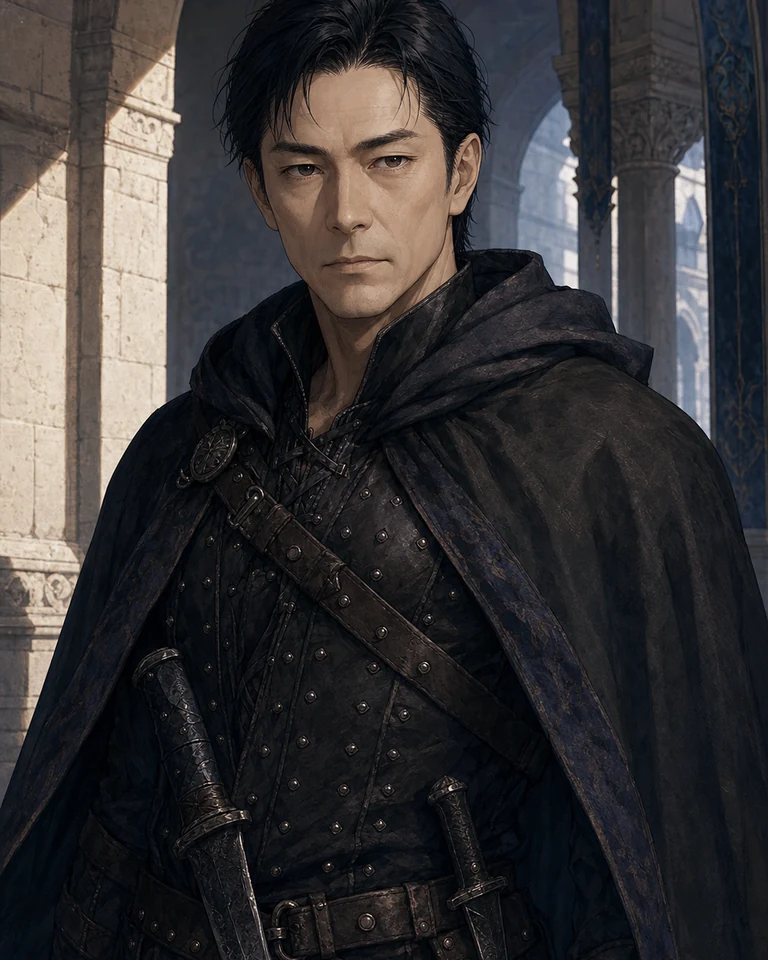
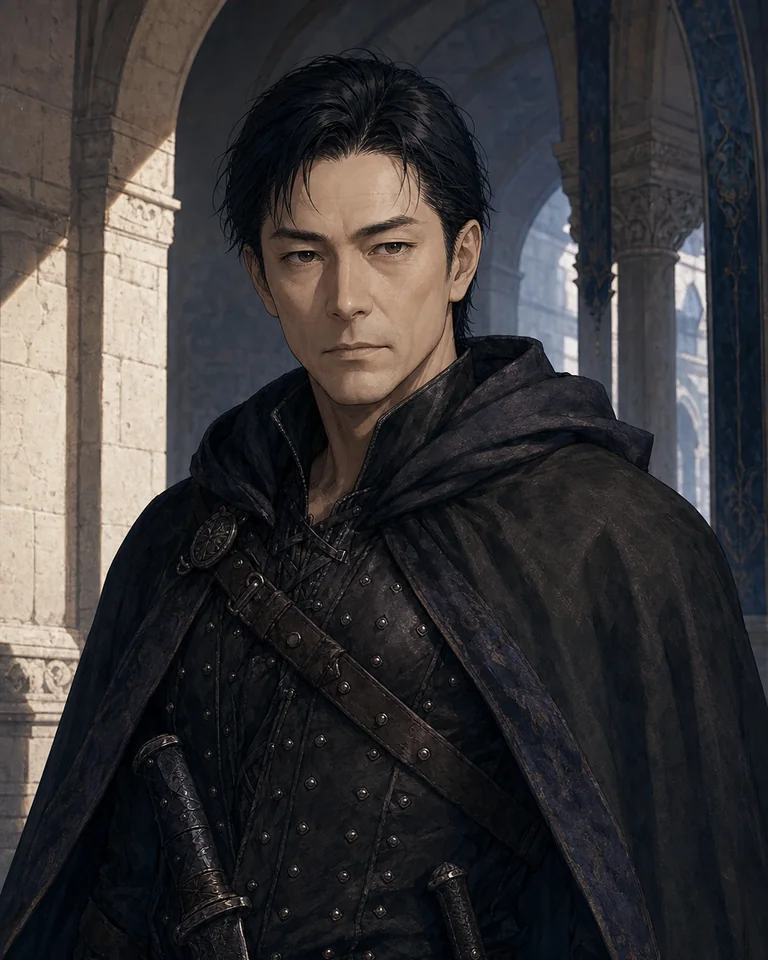
Refresh character portrait assets and framing

diff --git a/src/components/character-portrait-assets.js b/src/components/character-portrait-assets.js
@@ -14,7 +14,7 @@ import guildAdvocate from "../assets/generated/character-portraits/guild-advocat
 import velvetCourtier from "../assets/generated/character-portraits/velvet-courtier-grounded-v3.webp";
 import warCaptain from "../assets/generated/character-portraits/war-captain-grounded-v3.webp";
 import battleArchmage from "../assets/generated/character-portraits/battle-archmage-grounded-v3.webp";
-import shadowblade from "../assets/generated/character-portraits/shadowblade-grounded-v3.webp";
+import shadowblade from "../assets/generated/character-portraits/shadowblade-anime-v2.webp";
 import championPaladin from "../assets/generated/character-portraits/champion-paladin-grounded-v3.webp";
 import dragonHunter from "../assets/generated/character-portraits/dragon-hunter-grounded-v3.webp";
 import highSorcerer from "../assets/generated/character-portraits/high-sorcerer-grounded-v3.webp";
